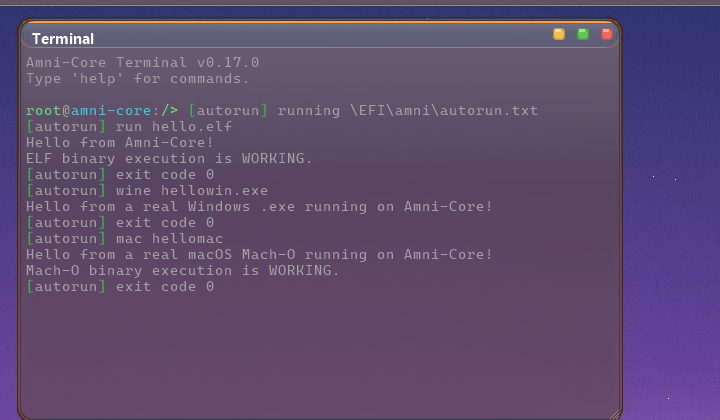
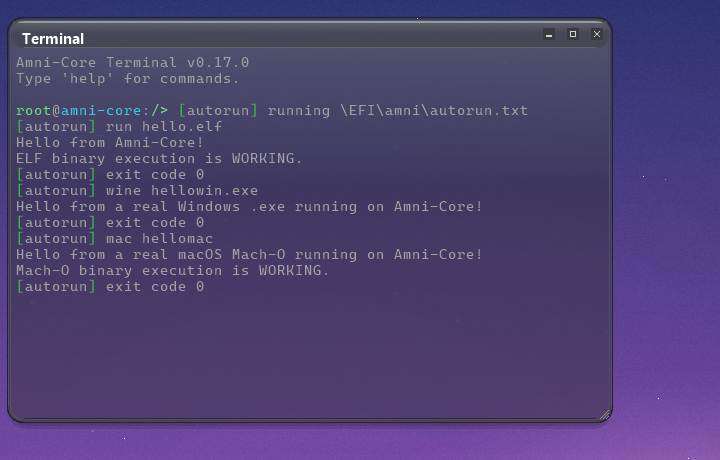
Amni-Core page: refresh screenshots to current look + GitHub link
- Update desktop + frosted-window screenshots to the current monochrome
  glass theme (grey #333 windows, Linux-style buttons, no top menubar).
- Replace the "Request Core Updates" mailto CTA with a "View on GitHub" link.

diff --git a/amni-core.html b/amni-core.html
@@ -191,7 +191,7 @@
 <h2>STATUS</h2>
 <p style="color:var(--dim);margin-bottom:2rem;font-size:.9rem;max-width:600px;margin-left:auto;margin-right:auto">Amni-Core is in active development. This is a long-horizon project building toward a fundamentally new computing platform. Updates will be published as development milestones are reached.</p>
 <div class="cta-row" style="justify-content:center;flex-wrap:wrap;gap:1rem">
-<a href="mailto:amnibro7@gmail.com?subject=Amni-Core%20Updates" class="btn btn-primary">REQUEST CORE UPDATES</a>
+<a href="https://github.com/Amnibro/Amni-Core" target="_blank" rel="noopener noreferrer" class="btn btn-primary">VIEW ON GITHUB</a>
 <a href="research.html" class="btn btn-outline">RELATED RESEARCH</a>
 <a href="privacy-core.html" class="btn btn-outline">PRIVACY POLICY</a>
 </div>
